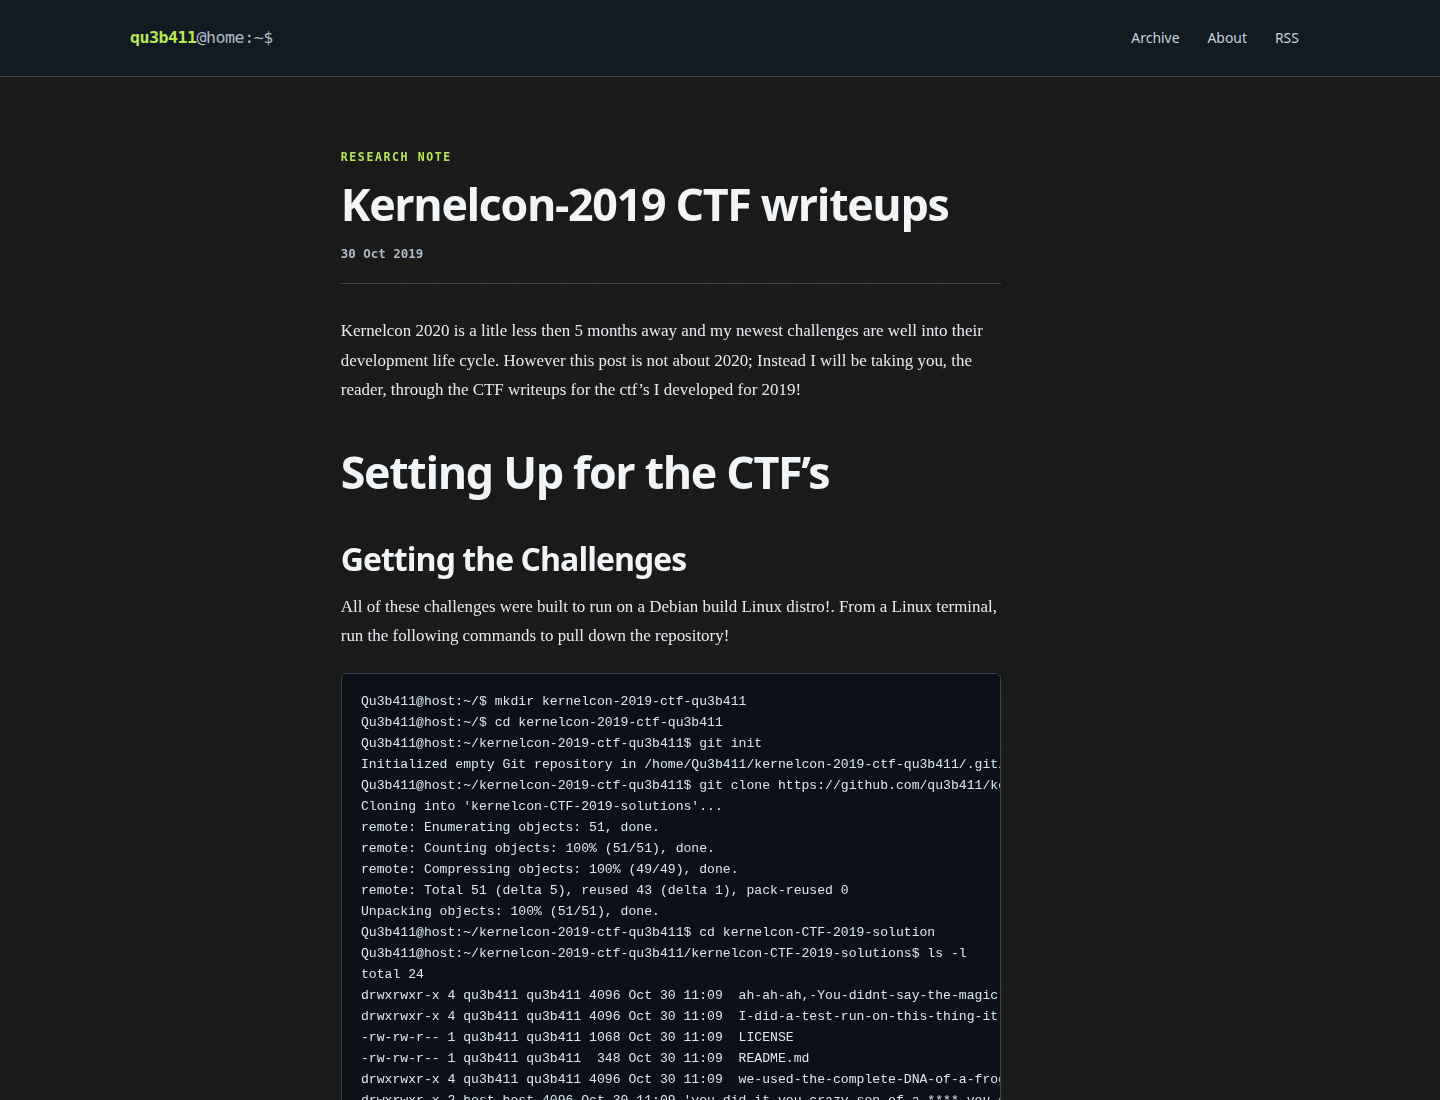
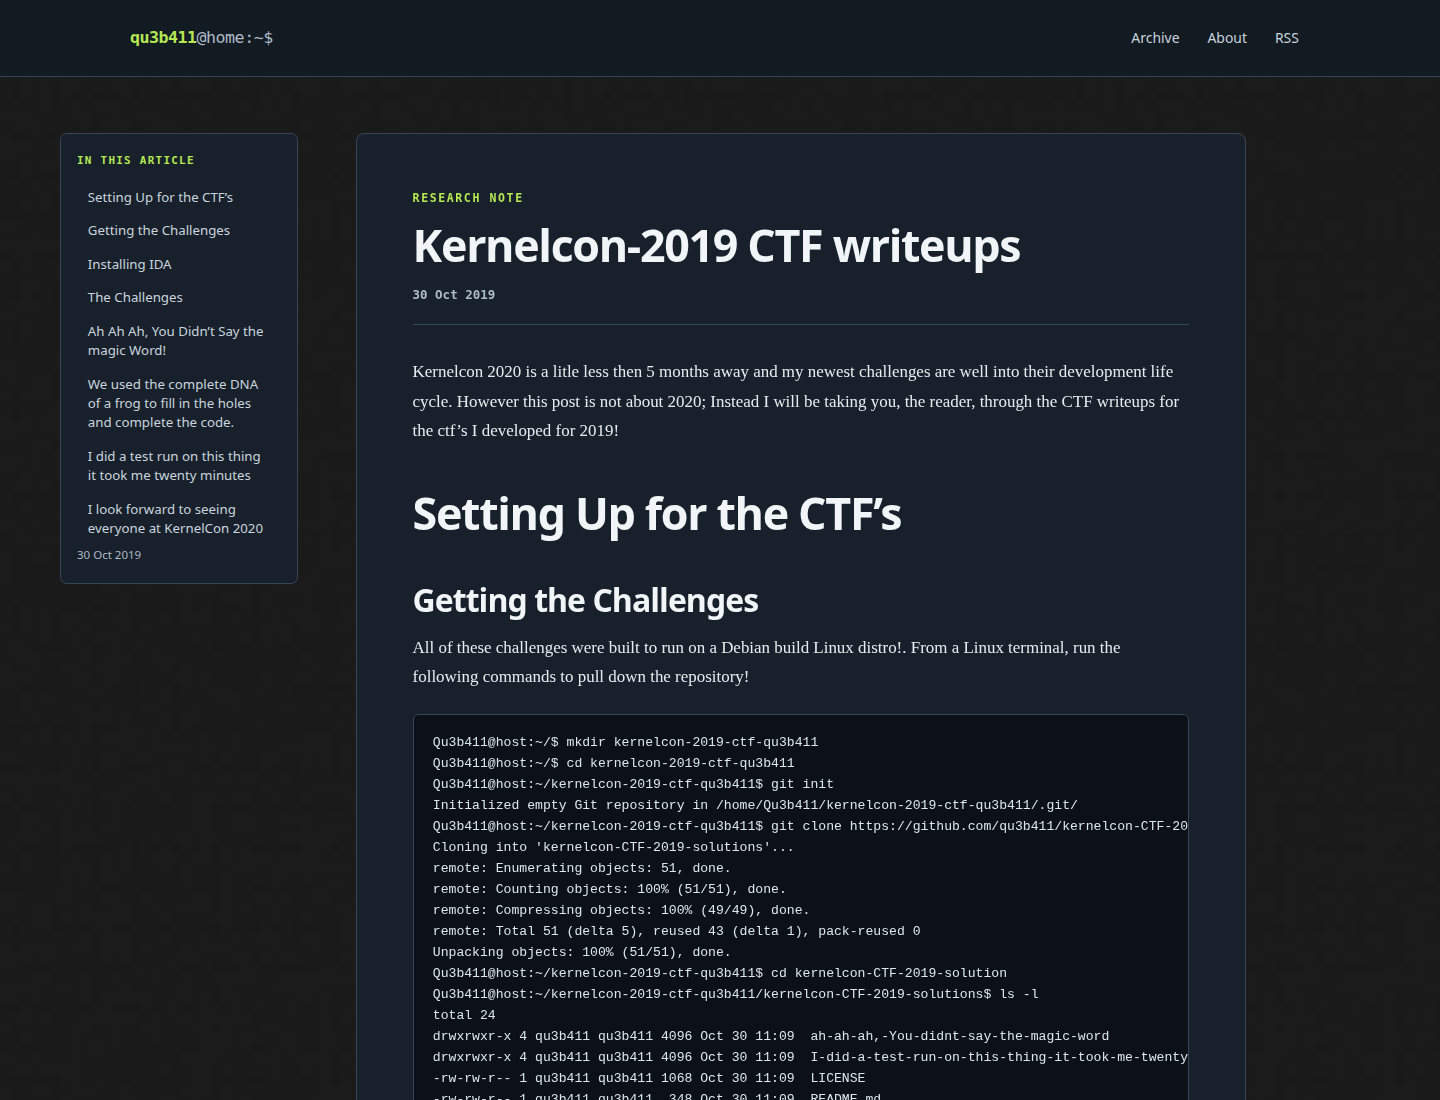
Use shared article sidebar for all posts

Changed region(s): [[0.2188, 0.1236, 0.8125, 1.0], [0.0625, 0.1236, 0.1875, 0.5255], [0.75, 0.9582, 0.7812, 0.9891]]

diff --git a/_sass/base.scss b/_sass/base.scss
@@ -210,7 +210,7 @@ a:focus-visible, summary:focus-visible {
 .prose summary { cursor: pointer; font-family: system-ui, sans-serif; }
 .prose details[open] summary { margin-bottom: 1rem; }
 
-.page-content, .post-content { max-width: var(--content-width); }
+.page-content { max-width: var(--content-width); }
 .page-heading { margin: 0 0 2rem; padding-bottom: 1.25rem; border-bottom: 1px solid var(--line); }
 .page-heading h1 { margin: 0 0 .5rem; }
 .page-heading .eyebrow { margin-bottom: .75rem; }
@@ -224,4 +224,76 @@ a:focus-visible, summary:focus-visible {
   .prose { font-size: 1rem; }
   .prose pre { font-size: .76rem; }
   .home-intro { padding-bottom: 2rem; }
+}
+
+/* Shared article shell and section index for all published posts. */
+.article-layout {
+  display: grid;
+  grid-template-columns: minmax(200px, 238px) minmax(0, 1fr);
+  gap: clamp(1.5rem, 4vw, 4rem);
+  width: min(1320px, calc(100% - 3rem));
+  margin: 0 auto;
+  padding: clamp(2rem, 4vw, 3.5rem) 0 5rem;
+  flex: 1;
+}
+.article-sidebar { min-width: 0; }
+.article-sidebar__inner {
+  position: sticky;
+  top: 1.5rem;
+  max-height: calc(100vh - 3rem);
+  overflow-y: auto;
+  padding: 1.2rem 1rem;
+  border: 1px solid var(--line);
+  border-radius: 7px;
+  background: var(--surface);
+  font: .83rem/1.45 system-ui, sans-serif;
+}
+.sidebar-label {
+  margin: 0 0 .8rem;
+  color: var(--accent);
+  font: 750 .68rem/1.4 ui-monospace, SFMono-Regular, Consolas, monospace;
+  letter-spacing: .12em;
+  text-transform: uppercase;
+}
+.article-sidebar nav { display: grid; gap: .1rem; }
+.article-sidebar nav a {
+  display: block;
+  padding: .4rem .55rem;
+  border-left: 2px solid transparent;
+  border-radius: 0 4px 4px 0;
+  color: var(--soft);
+  text-decoration: none;
+}
+.article-sidebar nav a:hover, .article-sidebar nav a:focus-visible {
+  border-color: var(--accent);
+  background: var(--surface-raised);
+  color: #fff;
+}
+.article-sidebar nav .nested { padding-left: 1rem; font-size: .77rem; }
+.sidebar-note {
+  margin: 1.4rem 0 .5rem;
+  padding-top: 1rem;
+  border-top: 1px solid var(--line);
+  color: var(--muted);
+  font-size: .75rem;
+}
+.sidebar-date { color: var(--muted); font-size: .72rem; }
+.article-content {
+  width: min(100%, 890px);
+  min-width: 0;
+  padding: clamp(1.5rem, 4vw, 3.5rem);
+  border: 1px solid var(--line);
+  border-radius: 8px;
+  background: var(--surface);
+}
+@media (max-width: 900px) {
+  .article-layout { display: block; width: min(100% - 2rem, 890px); padding: 1.2rem 0 3rem; }
+  .article-sidebar__inner { position: static; max-height: none; overflow: visible; margin-bottom: 1rem; padding: .85rem 1rem; }
+  .article-sidebar nav { display: flex; flex-wrap: wrap; gap: .1rem .3rem; }
+  .article-sidebar nav a, .article-sidebar nav .nested { padding: .25rem .4rem; border-left: 0; font-size: .75rem; }
+  .sidebar-note, .sidebar-date { display: none; }
+}
+
+@media (max-width: 560px) {
+  .article-content { padding: 1.25rem; }
 }

diff --git a/css/clickfix.css b/css/clickfix.css
@@ -1,61 +1,4 @@
-/* The case study keeps its article index and warning components; all base tokens and typography are shared. */
-.article-layout {
-  display: grid;
-  grid-template-columns: minmax(200px, 238px) minmax(0, 1fr);
-  gap: clamp(1.5rem, 4vw, 4rem);
-  width: min(1320px, calc(100% - 3rem));
-  margin: 0 auto;
-  padding: clamp(2rem, 4vw, 3.5rem) 0 5rem;
-  flex: 1;
-}
-.article-sidebar { min-width: 0; }
-.article-sidebar__inner {
-  position: sticky;
-  top: 1.5rem;
-  padding: 1.2rem 1rem;
-  border: 1px solid var(--line);
-  border-radius: 7px;
-  background: var(--surface);
-  font: .83rem/1.45 system-ui, sans-serif;
-}
-.sidebar-label {
-  margin: 0 0 .8rem;
-  color: var(--accent);
-  font: 750 .68rem/1.4 ui-monospace, SFMono-Regular, Consolas, monospace;
-  letter-spacing: .12em;
-  text-transform: uppercase;
-}
-.article-sidebar nav { display: grid; gap: .1rem; }
-.article-sidebar nav a {
-  display: block;
-  padding: .4rem .55rem;
-  border-left: 2px solid transparent;
-  border-radius: 0 4px 4px 0;
-  color: var(--soft);
-  text-decoration: none;
-}
-.article-sidebar nav a:hover, .article-sidebar nav a:focus-visible {
-  border-color: var(--accent);
-  background: var(--surface-raised);
-  color: #fff;
-}
-.article-sidebar nav .nested { padding-left: 1rem; font-size: .77rem; }
-.sidebar-note {
-  margin: 1.4rem 0 .5rem;
-  padding-top: 1rem;
-  border-top: 1px solid var(--line);
-  color: var(--muted);
-  font-size: .75rem;
-}
-.sidebar-date { color: var(--muted); font-size: .72rem; }
-.clickfix-content {
-  width: min(100%, 890px);
-  min-width: 0;
-  padding: clamp(1.5rem, 4vw, 3.5rem);
-  border: 1px solid var(--line);
-  border-radius: 8px;
-  background: var(--surface);
-}
+/* ClickFix-specific advisory, evidence, and video styling. */
 .clickfix-content > h1:first-child {
   margin: 0 0 1.2rem;
   color: #f6f8fa;
@@ -94,14 +37,6 @@
 .clickfix-content .video-embed iframe { display: block; width: 100%; height: auto; aspect-ratio: 16/9; border: 0; border-radius: 4px; }
 .clickfix-content .video-embed > p { margin: .7rem 0 0; font: 600 .88rem/1.5 system-ui, sans-serif; }
 .clickfix-content .video-embed figcaption { color: var(--soft); }
-@media (max-width: 900px) {
-  .article-layout { display: block; width: min(100% - 2rem, 890px); padding: 1.2rem 0 3rem; }
-  .article-sidebar__inner { position: static; margin-bottom: 1rem; padding: .85rem 1rem; }
-  .article-sidebar nav { display: flex; flex-wrap: wrap; gap: .1rem .3rem; }
-  .article-sidebar nav a, .article-sidebar nav .nested { padding: .25rem .4rem; border-left: 0; font-size: .75rem; }
-  .sidebar-note, .sidebar-date { display: none; }
-}
 @media (max-width: 560px) {
-  .clickfix-content { padding: 1.25rem; }
   .clickfix-content > h1:first-child { font-size: 2.2rem; }
 }

diff --git a/_layouts/clickfix.html b/_layouts/clickfix.html
@@ -1,31 +1,4 @@
-<!DOCTYPE html>
-<html lang="{{ site.lang | default: 'en' }}">
-{% include head.html %}
-<body class="site-page site-page--clickfix">
-  <a class="skip-link" href="#main-content">Skip to content</a>
-  {% include header.html %}
-  <main id="main-content" class="article-layout">
-    <aside class="article-sidebar" aria-label="Article navigation">
-      <div class="article-sidebar__inner">
-        <p class="sidebar-label">In this article</p>
-        <nav aria-label="Sections">
-          <a href="#public-advisory">Public Advisory</a>
-          <a href="#executive-summary">Executive Summary</a>
-          <a href="#dfiu">DFIU</a>
-          <a href="#incident-record">Incident record</a>
-          <a href="#technical-teardown">Technical Teardown</a>
-          <a href="#rickroll">RickRoll</a>
-          <a class="nested" href="#how-to-make-iclickrickroll">How to make iClickRickroll</a>
-          <a href="#the-reversal">The reversal</a>
-        </nav>
-        <p class="sidebar-note">Prepared lab · recorded demo · reproducible research</p>
-        <time datetime="{{ page.date | date_to_xmlschema }}" class="sidebar-date">{{ page.date | date: '%d %b %Y' }}</time>
-      </div>
-    </aside>
-    <article class="prose clickfix-content">
-      {{ content }}
-    </article>
-  </main>
-  {% include footer.html %}
-</body>
-</html>
+---
+layout: default
+---
+{{ content }}

diff --git a/_layouts/default.html b/_layouts/default.html
@@ -1,9 +1,17 @@
 <!DOCTYPE html>
 <html lang="{{ site.lang | default: 'en' }}">
 {% include head.html %}
-<body class="site-page">
+<body class="site-page{% if page.layout == 'clickfix' %} site-page--clickfix{% endif %}">
   <a class="skip-link" href="#main-content">Skip to content</a>
   {% include header.html %}
+  {% if page.layout == 'post' or page.layout == 'clickfix' %}
+  <main id="main-content" class="article-layout">
+    {% include article-sidebar.html %}
+    <article id="article-start" class="prose article-content{% if page.layout == 'clickfix' %} clickfix-content{% else %} post-content{% endif %}">
+      {{ content }}
+    </article>
+  </main>
+  {% else %}
   <main id="main-content" class="site-main">
     <div class="content-container">
       {{ content }}
@@ -20,7 +28,9 @@
       {% endif %}
     </div>
   </main>
+  {% endif %}
   {% include footer.html %}
   {% if site.google_analytics %}{% include analytics.html %}{% endif %}
+  {% if page.layout == 'post' and page.article_nav == nil %}<script defer src="{{ '/assets/js/article-toc.js' | relative_url }}"></script>{% endif %}
 </body>
 </html>

diff --git a/_includes/article-sidebar.html b/_includes/article-sidebar.html
@@ -1,0 +1,16 @@
+<aside class="article-sidebar" aria-label="Article navigation">
+  <div class="article-sidebar__inner">
+    <p class="sidebar-label">In this article</p>
+    <nav aria-label="Sections"{% unless page.article_nav %} data-auto-toc{% endunless %}>
+      {% if page.article_nav %}
+        {% for section in page.article_nav %}
+          <a{% if section.nested %} class="nested"{% endif %} href="#{{ section.id }}">{{ section.label }}</a>
+        {% endfor %}
+      {% else %}
+        <a href="#article-start">Start</a>
+      {% endif %}
+    </nav>
+    {% if page.sidebar_note %}<p class="sidebar-note">{{ page.sidebar_note }}</p>{% endif %}
+    <time datetime="{{ page.date | date_to_xmlschema }}" class="sidebar-date">{{ page.date | date: '%d %b %Y' }}</time>
+  </div>
+</aside>

diff --git a/assets/js/article-toc.js b/assets/js/article-toc.js
@@ -1,0 +1,15 @@
+/* Build section links for ordinary posts without requiring per-post navigation data. */
+(() => {
+  const nav = document.querySelector('[data-auto-toc]');
+  const article = document.querySelector('.article-content');
+  if (!nav || !article) return;
+  const headings = [...article.querySelectorAll(':scope > h1[id], :scope > h2[id], :scope > h3[id]')];
+  if (!headings.length) return;
+  nav.replaceChildren(...headings.map((heading) => {
+    const link = document.createElement('a');
+    link.href = `#${heading.id}`;
+    link.textContent = heading.textContent.trim();
+    if (heading.tagName === 'H3') link.className = 'nested';
+    return link;
+  }));
+})();

diff --git a/_layouts/post.html b/_layouts/post.html
@@ -1,11 +1,9 @@
 ---
 layout: default
 ---
-<article class="prose post-content">
-  <header class="page-heading">
-    <p class="eyebrow">Research note</p>
-    <h1>{{ page.title }}</h1>
-    <time datetime="{{ page.date | date_to_xmlschema }}" class="post-date">{{ page.date | date: '%d %b %Y' }}</time>
-  </header>
-  {{ content }}
-</article>
+<header class="page-heading">
+  <p class="eyebrow">Research note</p>
+  <h1>{{ page.title }}</h1>
+  <time datetime="{{ page.date | date_to_xmlschema }}" class="post-date">{{ page.date | date: '%d %b %Y' }}</time>
+</header>
+{{ content }}

diff --git a/docs/design-review/AUDIT.md b/docs/design-review/AUDIT.md
@@ -2,7 +2,7 @@
 
 ## Inventory
 
-The public build has a homepage, two published articles, Archive, About, and the existing 404 page. The password draft remains unpublished. The shared Jekyll shell uses `default`, `page`, and `post`; ClickFix has a dedicated case-study layout. The original main stylesheet came from the Hacker-Blog theme, while ClickFix had its own light stylesheet. There is no site JavaScript in use unless the optional analytics setting is enabled.
+The public build has a homepage, two published articles, Archive, About, and the existing 404 page. The password draft remains unpublished. The shared Jekyll shell uses `default`, `page`, and `post`; ClickFix has a dedicated case-study layout. The original main stylesheet came from the Hacker-Blog theme, while ClickFix had its own light stylesheet. The original site had no active JavaScript unless the optional analytics setting was enabled.
 
 ## Findings before this branch
 
@@ -15,16 +15,16 @@ The public build has a homepage, two published articles, Archive, About, and the
 ## Standardized
 
 - One dark palette, terminal brand, shared header/navigation/footer, focus treatment, type scale, reading width, link style, code treatment, tables, and image constraints.
-- Shared `head.html` uses one SEO tag output and one stylesheet; ClickFix adds only its component stylesheet. The ClickFix browser title is shorter for search results while its visible article title remains unchanged.
+- Shared `head.html` uses one SEO tag output and one base stylesheet; ClickFix adds only its component stylesheet. Both published articles use the same sidebar and article card. The ClickFix browser title is shorter for search results while its visible article title remains unchanged.
 - Page and post templates share the same shell. About now uses the page template. The sitemap omits utility pages, and the RSS self link matches its published path.
 - Local Gemfile versions match the core Jekyll and configured plugin versions listed for GitHub Pages.
 
 ## Preserved differences
 
-ClickFix keeps its section index, advisory warning, figures, details, video, and lab links. KernelCon keeps its original challenge images, terminal transcript, and DNA table. The body of both published articles is byte-for-byte unchanged. The existing post URLs and generated heading IDs remain in place. No new JavaScript, framework, analytics service, or external font was added.
+ClickFix keeps its curated section links, advisory warning, figures, details, video, and lab links. KernelCon keeps its original challenge images, terminal transcript, and DNA table; its sidebar links are generated from the existing headings. The same small local script supplies section links for future ordinary posts. The body of both published articles is byte-for-byte unchanged. The existing post URLs and generated heading IDs remain in place. No framework, analytics service, or external font was added.
 
 ## Validation
 
-A Jekyll build completed with Jekyll 3.10.0 and the configured GitHub Pages plugin versions. Six rendered HTML pages were checked: one title, one description, one canonical URL per page; 123 link and asset references inspected with no missing local target or fragment; and 23 rendered images with no load failures in Chrome. Sitemap and feed XML parsed successfully. Desktop (1440 × 900) and phone (390 × 844) Chrome checks found no page-wide overflow on the homepage, both articles, Archive, About, or 404. The long code and table content scroll inside their own containers. Keyboard focus on the skip link has a visible outline.
+A Jekyll build completed with Jekyll 3.10.0 and the configured GitHub Pages plugin versions. Six rendered HTML pages were checked: one title, one description, one canonical URL per page; 125 link and asset references inspected with no missing local target or fragment; and 23 rendered images with no load failures in Chrome. Sitemap and feed XML parsed successfully. Desktop (1440 × 900) and phone (390 × 844) Chrome checks found no page-wide overflow on the homepage, both articles, Archive, About, or 404. Both article sidebars link to existing headings. The long code and table content scroll inside their own containers. Keyboard focus on the skip link has a visible outline.
 
 The HTML validator reported no structural markup errors after excluding its rules for output formatting generated by Jekyll and its SEO plugin. It still reports five missing `scope` attributes on one legacy KernelCon Markdown table header. The table's source and data were left unchanged under the content-preservation requirement.

diff --git a/README.md b/README.md
@@ -17,10 +17,10 @@ Open `http://127.0.0.1:4000/`. The generated site is in `_site/`. GitHub Pages b
 ## Site structure
 
 - `_layouts/default.html` supplies the shared page shell.
-- `_layouts/post.html` and `_layouts/page.html` use that shell for articles and pages.
-- `_layouts/clickfix.html` uses the same head, header, footer, and base CSS while keeping the case study's section index.
-- `_includes/` contains shared navigation, metadata, and footer markup.
-- `_sass/base.scss` defines the dark palette and typography; `css/clickfix.css` contains only case-study components.
+- `_layouts/post.html` and `_layouts/clickfix.html` use the same article shell and `_includes/article-sidebar.html`; `_layouts/page.html` uses the shared page shell.
+- `_includes/` contains shared navigation, metadata, sidebar, and footer markup.
+- `_sass/base.scss` defines the dark palette, typography, and article sidebar; `css/clickfix.css` contains only case-study components.
+- Ordinary posts get section links from their headings through the small local `assets/js/article-toc.js` script. A post can supply `article_nav` in front matter when a curated list is useful.
 - `_posts/` contains published writing. `published: false` posts are intentionally excluded from the public build.
 
 The permalink configuration and existing article anchors are part of the published URL surface. Preserve them when editing layouts or headings. The ClickFix article's technical claims, evidence boundaries, commands, indicators, and lab instructions are editorial content; design changes should not alter them.

diff --git a/docs/design-review/README.md b/docs/design-review/README.md
@@ -8,4 +8,4 @@ The `before` images were captured from the public site before this branch was ed
 | ClickFix case study | [before](clickfix-before.png) | [after](clickfix-after.png) | [after](clickfix-mobile-after.png) |
 | KernelCon 2019 writeup | [before](kernelcon-before.png) | [after](kernelcon-after.png) | [after](kernelcon-mobile-after.png) |
 
-The case study's section index and warning card remain its own components. Its palette, header, type scale, links, code, tables, and footer now use the shared site system.
+Both articles now use the same section sidebar and reading card. The case study keeps its own warning card and curated section links. Its palette, header, type scale, links, code, tables, and footer use the shared site system.

diff --git a/_posts/2026-10-08-clickfix-gpt-iclickrickroll.md b/_posts/2026-10-08-clickfix-gpt-iclickrickroll.md
@@ -6,6 +6,16 @@ description: "A malicious Custom GPT reached through a Google ad led to a ClickF
 date: 2026-10-08
 permalink: /clickfix/
 published: true
+sidebar_note: "Prepared lab · recorded demo · reproducible research"
+article_nav:
+  - { id: public-advisory, label: "Public Advisory" }
+  - { id: executive-summary, label: "Executive Summary" }
+  - { id: dfiu, label: "DFIU" }
+  - { id: incident-record, label: "Incident record" }
+  - { id: technical-teardown, label: "Technical Teardown" }
+  - { id: rickroll, label: "RickRoll" }
+  - { id: how-to-make-iclickrickroll, label: "How to make iClickRickroll", nested: true }
+  - { id: the-reversal, label: "The reversal" }
 ---
 
 # Public Advisory
